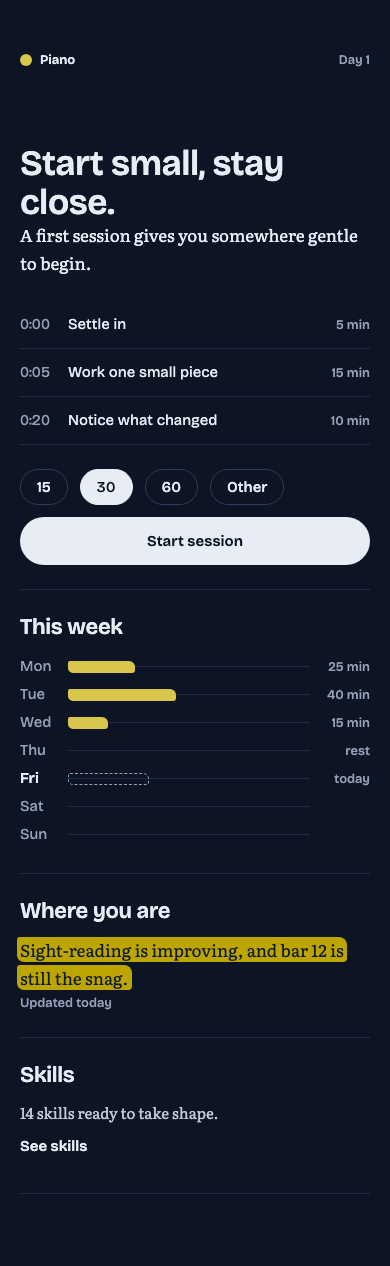
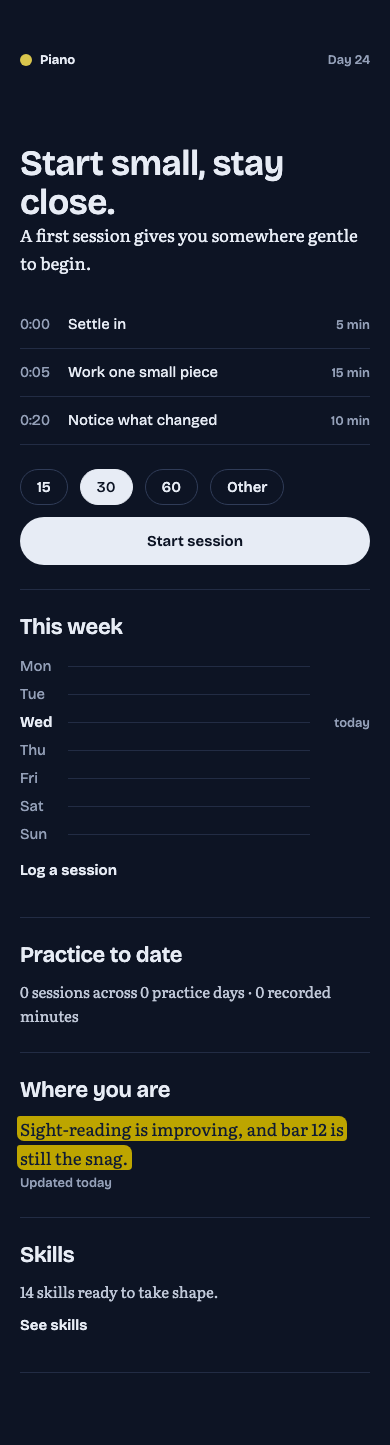
feat: log practice and rest days and show journey statistics

diff --git a/app/j/[id]/page.tsx b/app/j/[id]/page.tsx
@@ -1,3 +1,4 @@
+import { addDays, differenceInCalendarDays, format, parseISO, startOfWeek } from "date-fns";
 import Link from "next/link";
 import { notFound } from "next/navigation";
 import { getJourneyView } from "@/lib/db/queries";
@@ -8,4 +9,19 @@ import { Mark } from "@/components/marks/mark";
 
 export const dynamic = "force-dynamic";
 
-export default async function Home({ params }: PageProps<"/j/[id]">) { const { id } = await params; const view = await getJourneyView(id); if (!view) notFound(); const days = ["Mon", "Tue", "Wed", "Thu", "Fri", "Sat", "Sun"].map((label, index) => ({ label, minutes: index < 3 ? [25, 40, 15][index] : undefined, rest: index === 3, today: index === 4, future: index > 4 })); return <main className="journey" style={{ "--hue": view.journey.hue } as React.CSSProperties}><header className="topbar"><Link href="/new" className="journey-pill"><i />{view.journey.name}</Link><span>Day 1</span></header><section className="home-hero"><h1>Start small, stay close.</h1><p className="reading">A first session gives you somewhere gentle to begin.</p><div className="session-preview"><p><span>0:00</span> Settle in <small>5 min</small></p><p><span>0:05</span> Work one small piece <small>15 min</small></p><p><span>0:20</span> Notice what changed <small>10 min</small></p></div><div className="cluster"><Chip>15</Chip><Chip selected>30</Chip><Chip>60</Chip><Chip>Other</Chip></div><Button>Start session</Button></section><section><h2>This week</h2><WeekLines days={days} plannedMinutes={30} /></section><section><h2>Where you are</h2><p className="reading"><Mark deep>{view.charter?.startingPoint || "Starting from where you are today."}</Mark></p><small>Updated today</small></section><section><h2>Skills</h2><p className="reading-small">{view.skills.length} skills ready to take shape.</p><Link className="text-link" href={`/j/${id}/skills`}>See skills</Link></section></main>; }
+export default async function Home({ params, searchParams }: PageProps<"/j/[id]">) { const { id } = await params; const view = await getJourneyView(id); if (!view) notFound(); const now = new Date();
+  const monday = startOfWeek(now, { weekStartsOn: 1 });
+  const today = format(now, "yyyy-MM-dd");
+  const days = Array.from({ length: 7 }, (_, index) => {
+    const date = addDays(monday, index);
+    const key = format(date, "yyyy-MM-dd");
+    const entries = view.entries.filter(entry => entry.occurredOn === key);
+    const practice = entries.filter(entry => entry.kind === "practice");
+    return { label: format(date, "EEE"), minutes: practice.reduce((total, entry) => total + (entry.minutes ?? 0), 0),
+      rest: !practice.length && entries.some(entry => entry.kind === "rest"), today: key === today, future: key > today };
+  });
+  const sessions = view.entries.filter(entry => entry.kind === "practice");
+  const totalMinutes = sessions.reduce((sum, entry) => sum + (entry.minutes ?? 0), 0);
+  const practiceDays = new Set(sessions.map(entry => entry.occurredOn)).size;
+  const saved = (await searchParams).saved === "1";
+  return <main className="journey" style={{ "--hue": view.journey.hue } as React.CSSProperties}><header className="topbar"><Link href="/new" className="journey-pill"><i />{view.journey.name}</Link><span>Day {Math.max(1, differenceInCalendarDays(now, parseISO(view.journey.startDate)) + 1)}</span></header>{saved && <p role="status">Entry saved.</p>}<section className="home-hero"><h1>Start small, stay close.</h1><p className="reading">A first session gives you somewhere gentle to begin.</p><div className="session-preview"><p><span>0:00</span> Settle in <small>5 min</small></p><p><span>0:05</span> Work one small piece <small>15 min</small></p><p><span>0:20</span> Notice what changed <small>10 min</small></p></div><div className="cluster"><Chip>15</Chip><Chip selected>30</Chip><Chip>60</Chip><Chip>Other</Chip></div><Button>Start session</Button></section><section><h2>This week</h2><WeekLines days={days} /><Link className="text-link" href={`/j/${id}/log`}>Log a session</Link></section><section><h2>Practice to date</h2><p className="reading-small">{sessions.length} {sessions.length === 1 ? "session" : "sessions"} across {practiceDays} practice {practiceDays === 1 ? "day" : "days"} · {totalMinutes} recorded minutes</p></section><section><h2>Where you are</h2><p className="reading"><Mark deep>{view.charter?.startingPoint || "Starting from where you are today."}</Mark></p><small>Updated today</small></section><section><h2>Skills</h2><p className="reading-small">{view.skills.length} skills ready to take shape.</p><Link className="text-link" href={`/j/${id}/skills`}>See skills</Link></section></main>; }

diff --git a/app/globals.css b/app/globals.css
@@ -14,3 +14,12 @@
 @keyframes pulse { 50% { opacity:.5; } } @media (min-width:900px) { .skill-stroke { width:200px; } .styleguide { padding-top:var(--s-8); } } @media (prefers-reduced-motion:reduce) { *,*::before,*::after { animation-duration:0ms!important; transition-duration:0ms!important; } }
 .onboarding,.journey { width:min(100%,560px); margin:0 auto; padding:var(--s-6) var(--gutter) var(--s-8); }.onboarding form { display:grid; gap:var(--s-5); }.onboarding h1,.journey h1 { font-size:clamp(30px,9vw,52px); line-height:1.1; }.onboarding label { display:grid; gap:var(--s-2); color:var(--ink-2); font-weight:500; }.onboarding textarea { width:100%; min-height:120px; resize:vertical; border:1px solid transparent; border-radius:var(--r-input); background:var(--paper-sunk); padding:var(--s-4); color:var(--ink); font-family:var(--font-reading),Georgia,serif; font-size:17px; line-height:1.6; }.onboarding textarea:focus { outline:none; border:1.5px solid var(--ink); }.stepper { display:flex; gap:var(--s-2); margin-bottom:var(--s-7); }.stepper i { width:44px; height:4px; border-radius:var(--r-pill); background:var(--rule); }.stepper i.on { background:var(--ink); }.hue-swatches { display:flex; gap:var(--s-3); }.hue-swatch { width:44px; height:44px; border-radius:var(--r-pill); border:2px solid transparent; background:oklch(.9 .15 var(--swatch-hue)); }.hue-swatch.selected { box-shadow:0 0 0 2px var(--paper),0 0 0 4px var(--ink); }.topbar { display:flex; align-items:center; justify-content:space-between; min-height:56px; margin-bottom:var(--s-6); color:var(--muted); font-size:13px; font-weight:500; }.journey-pill { display:inline-flex; align-items:center; min-height:44px; gap:var(--s-2); color:var(--ink); font-weight:600; text-decoration:none; }.journey-pill i { width:12px; height:12px; border-radius:50%; background:var(--mark); }.home-hero { padding-bottom:var(--s-6); }.home-hero .button { width:100%; }.session-preview { margin:var(--s-5) 0; }.session-preview p { display:grid; grid-template-columns:48px 1fr auto; min-height:48px; align-items:center; margin:0; border-bottom:1px solid var(--rule); }.session-preview span { color:var(--muted); font-variant-numeric:tabular-nums; }.journey section { padding:var(--s-5) 0; border-bottom:1px solid var(--rule); }.journey h2 { margin-bottom:var(--s-3); }.reading-small { font-family:var(--font-reading),Georgia,serif; font-size:15px; line-height:1.6; color:var(--ink-2); }.text-link,.back-link { display:inline-flex; min-height:44px; align-items:center; color:var(--ink); font-weight:600; text-decoration:none; }.back-link { color:var(--muted); margin-bottom:var(--s-4); }.document section { border:0; padding-bottom:var(--s-5); }
 @media (min-width:900px) { .journey { width:min(100%,824px); padding-top:var(--s-7); } .home-hero { max-width:680px; } }
+
+.onboarding input[type="number"] {
+  min-height: 44px;
+  padding: var(--s-2) var(--s-4);
+  border: 1px solid var(--rule);
+  border-radius: var(--r-input);
+  background: var(--paper-sunk);
+  color: var(--ink);
+}

diff --git a/app/j/[id]/log/page.tsx b/app/j/[id]/log/page.tsx
@@ -1,0 +1,38 @@
+import Link from "next/link";
+import { notFound, redirect } from "next/navigation";
+import { randomUUID } from "node:crypto";
+import { format } from "date-fns";
+import { getJourney } from "@/lib/db/queries";
+import { sqlite } from "@/lib/db/client";
+import { Button } from "@/components/ui/button";
+
+export default async function Log({ params }: PageProps<"/j/[id]/log">) {
+  const { id } = await params;
+  const journey = await getJourney(id);
+  if (!journey) notFound();
+  const entryId = randomUUID();
+  async function save(data: FormData) {
+    "use server";
+    const note = String(data.get("note") ?? "").trim();
+    const rest = data.get("kind") === "rest";
+    const duration = String(data.get("minutes") ?? "").trim();
+    const minutes = rest || !duration ? null : Number(duration);
+    if (!rest && !note) redirect(`/j/${id}/log?empty=1`);
+    if (note.length > 8000 || (minutes !== null && (!Number.isInteger(minutes) || minutes < 0 || minutes > 600))) throw Error("Check your entry and minutes.");
+    if (!(await getJourney(id))) notFound();
+    const now = new Date();
+    sqlite.prepare("INSERT INTO log_entry (id,journey_id,raw_text,minutes,kind,occurred_on,created_at) VALUES (?,?,?,?,?,?,?) ON CONFLICT(id) DO NOTHING")
+      .run(entryId, id, note || "Rest day", minutes, rest ? "rest" : "practice", format(now, "yyyy-MM-dd"), now.toISOString());
+    redirect(`/j/${id}?saved=1`);
+  }
+  return <main className="onboarding">
+    <Link href={`/j/${id}`} className="back-link">← {journey.name}</Link>
+    <h1>Log a session</h1>
+    <form action={save}>
+      <label>What did you do?<textarea name="note" required maxLength={8000} placeholder="What clicked, or where did you get stuck?" /></label>
+      <label>Minutes (optional)<input name="minutes" type="number" min="0" max="600" /></label>
+      <Button>Save entry</Button>
+      <Button variant="ghost" name="kind" value="rest" formNoValidate>Log a rest day</Button>
+    </form>
+  </main>;
+}
